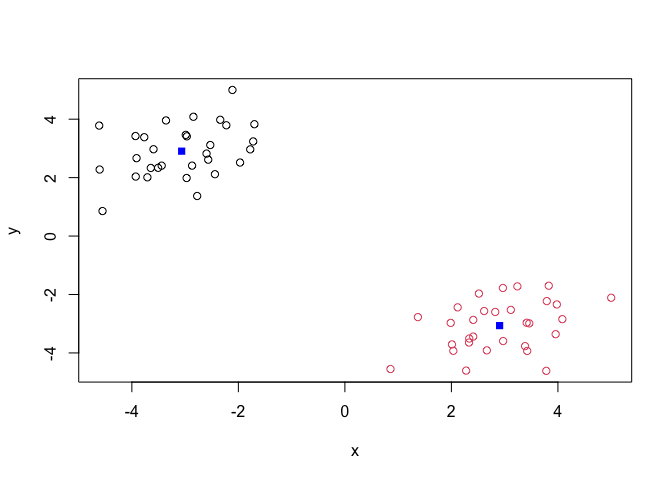
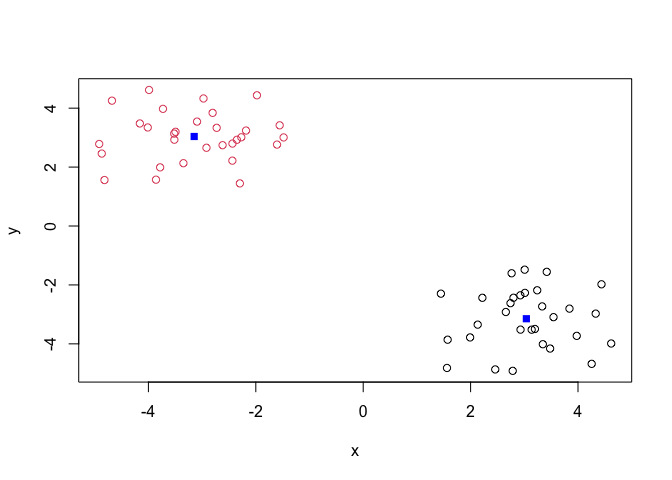
add these too

diff --git a/class07/class07.md b/class07/class07.md
@@ -24,20 +24,21 @@ hist( rnorm(5000) )
 rnorm(30, mean = 3)
 ```
 
-     [1] 2.723532 3.261522 2.534410 3.353386 2.838602 2.847074 1.991159 4.305638
-     [9] 3.210332 3.210749 2.930113 2.056106 2.625664 3.293327 3.233725 3.232507
-    [17] 2.918116 2.774017 2.284953 1.927727 1.950199 2.598374 2.962690 2.818210
-    [25] 2.239249 2.918572 4.685384 3.315832 4.487750 5.429186
+     [1] 3.8217615 2.9075970 2.2091991 1.8375144 1.8093009 2.4929397 2.7772924
+     [8] 2.5273977 4.0656303 3.9019723 3.2106615 2.3356025 5.9000555 3.4208126
+    [15] 5.0610947 2.9640300 2.4799324 3.0350154 1.8897613 1.6656779 4.4979176
+    [22] 0.7922321 4.0352856 2.0441580 2.7941421 1.4996687 3.0244404 4.0367926
+    [29] 2.5501538 1.5806868
 
 ``` r
 rnorm(30, mean = -3)
 ```
 
-     [1] -4.5642812 -2.5208086 -1.6769302 -2.1514637 -2.1231808 -3.7774185
-     [7] -1.8504283 -2.1150750 -2.5319243 -1.6193824 -1.7255608 -3.9948285
-    [13] -2.7051794 -3.0158474 -3.9130494 -3.6944221 -2.8100062 -1.4892181
-    [19] -1.1744037 -2.6474515 -1.9775158 -1.9702881 -1.5335114 -3.9279127
-    [25] -4.4288345 -3.5374013 -0.7956935 -3.1129882 -2.6799682 -2.9710771
+     [1] -2.294333 -3.028348 -3.686165 -2.753416 -3.709864 -1.563983 -2.767210
+     [8] -3.809635 -1.744672 -3.533773 -3.629331 -4.143903 -2.874603 -5.430443
+    [15] -3.501939 -1.328568 -1.067240 -1.954122 -2.737503 -3.797013 -6.031602
+    [22] -2.668463 -2.644406 -3.196841 -2.412142 -2.413348 -2.853653 -3.868691
+    [29] -2.587849 -2.286218
 
 ``` r
 tmp <- c(rnorm(30, mean = 3),
@@ -46,67 +47,67 @@ rnorm(30, mean =-3) )
 cbind(x=tmp, y =rev(tmp))
 ```
 
-                   x          y
-     [1,]  2.3352128 -3.5071933
-     [2,]  2.4100615 -2.8690682
-     [3,]  5.0005263 -2.1115064
-     [4,]  1.3710957 -2.7738903
-     [5,]  2.9710466 -3.5934649
-     [6,]  2.0359491 -3.9272989
-     [7,]  3.8280580 -1.6992426
-     [8,]  1.9869728 -2.9717345
-     [9,]  3.2388237 -1.7218173
-    [10,]  0.8562546 -4.5509985
-    [11,]  2.8227551 -2.5977699
-    [12,]  4.0829836 -2.8445475
-    [13,]  3.4133951 -2.9678159
-    [14,]  3.3830829 -3.7673170
-    [15,]  2.1173331 -2.4398973
-    [16,]  2.9671846 -1.7773149
-    [17,]  2.3307272 -3.6445934
-    [18,]  3.7914382 -2.2260545
-    [19,]  2.6657605 -3.9118829
-    [20,]  2.2767449 -4.6048721
-    [21,]  2.6146341 -2.5661864
-    [22,]  3.4625961 -2.9878548
-    [23,]  3.1157297 -2.5276555
-    [24,]  2.0105485 -3.7083924
-    [25,]  3.7814997 -4.6132415
-    [26,]  2.4095337 -3.4401396
-    [27,]  3.9797047 -2.3406314
-    [28,]  3.4230426 -3.9319705
-    [29,]  3.9575141 -3.3589091
-    [30,]  2.5165553 -1.9681716
-    [31,] -1.9681716  2.5165553
-    [32,] -3.3589091  3.9575141
-    [33,] -3.9319705  3.4230426
-    [34,] -2.3406314  3.9797047
-    [35,] -3.4401396  2.4095337
-    [36,] -4.6132415  3.7814997
-    [37,] -3.7083924  2.0105485
-    [38,] -2.5276555  3.1157297
-    [39,] -2.9878548  3.4625961
-    [40,] -2.5661864  2.6146341
-    [41,] -4.6048721  2.2767449
-    [42,] -3.9118829  2.6657605
-    [43,] -2.2260545  3.7914382
-    [44,] -3.6445934  2.3307272
-    [45,] -1.7773149  2.9671846
-    [46,] -2.4398973  2.1173331
-    [47,] -3.7673170  3.3830829
-    [48,] -2.9678159  3.4133951
-    [49,] -2.8445475  4.0829836
-    [50,] -2.5977699  2.8227551
-    [51,] -4.5509985  0.8562546
-    [52,] -1.7218173  3.2388237
-    [53,] -2.9717345  1.9869728
-    [54,] -1.6992426  3.8280580
-    [55,] -3.9272989  2.0359491
-    [56,] -3.5934649  2.9710466
-    [57,] -2.7738903  1.3710957
-    [58,] -2.1115064  5.0005263
-    [59,] -2.8690682  2.4100615
-    [60,] -3.5071933  2.3352128
+                  x         y
+     [1,]  2.131927 -3.347994
+     [2,]  2.784126 -4.916352
+     [3,]  3.544007 -3.094001
+     [4,]  3.240561 -2.181822
+     [5,]  2.219109 -2.436335
+     [6,]  3.011910 -2.270132
+     [7,]  3.332985 -2.728793
+     [8,]  2.929633 -3.516801
+     [9,]  2.458753 -4.868634
+    [10,]  4.437481 -1.978751
+    [11,]  4.329454 -2.974265
+    [12,]  1.572363 -3.859047
+    [13,]  3.480752 -4.159378
+    [14,]  3.841063 -2.804298
+    [15,]  2.656290 -2.919027
+    [16,]  3.345104 -4.012210
+    [17,]  3.976579 -3.728804
+    [18,]  4.254647 -4.678682
+    [19,]  1.990846 -3.781863
+    [20,]  3.197870 -3.495185
+    [21,]  2.743170 -2.618804
+    [22,]  3.006909 -1.482248
+    [23,]  2.798585 -2.434820
+    [24,]  3.136993 -3.519212
+    [25,]  1.446928 -2.296643
+    [26,]  4.618280 -3.987927
+    [27,]  1.560344 -4.818487
+    [28,]  2.763759 -1.604457
+    [29,]  3.418141 -1.555741
+    [30,]  2.926366 -2.352208
+    [31,] -2.352208  2.926366
+    [32,] -1.555741  3.418141
+    [33,] -1.604457  2.763759
+    [34,] -4.818487  1.560344
+    [35,] -3.987927  4.618280
+    [36,] -2.296643  1.446928
+    [37,] -3.519212  3.136993
+    [38,] -2.434820  2.798585
+    [39,] -1.482248  3.006909
+    [40,] -2.618804  2.743170
+    [41,] -3.495185  3.197870
+    [42,] -3.781863  1.990846
+    [43,] -4.678682  4.254647
+    [44,] -3.728804  3.976579
+    [45,] -4.012210  3.345104
+    [46,] -2.919027  2.656290
+    [47,] -2.804298  3.841063
+    [48,] -4.159378  3.480752
+    [49,] -3.859047  1.572363
+    [50,] -2.974265  4.329454
+    [51,] -1.978751  4.437481
+    [52,] -4.868634  2.458753
+    [53,] -3.516801  2.929633
+    [54,] -2.728793  3.332985
+    [55,] -2.270132  3.011910
+    [56,] -2.436335  2.219109
+    [57,] -2.181822  3.240561
+    [58,] -3.094001  3.544007
+    [59,] -4.916352  2.784126
+    [60,] -3.347994  2.131927
 
 ``` r
 cbind(letters, rev(letters))
@@ -173,8 +174,8 @@ km$size
 km$cluster
 ```
 
-     [1] 2 2 2 2 2 2 2 2 2 2 2 2 2 2 2 2 2 2 2 2 2 2 2 2 2 2 2 2 2 2 1 1 1 1 1 1 1 1
-    [39] 1 1 1 1 1 1 1 1 1 1 1 1 1 1 1 1 1 1 1 1 1 1
+     [1] 1 1 1 1 1 1 1 1 1 1 1 1 1 1 1 1 1 1 1 1 1 1 1 1 1 1 1 1 1 1 2 2 2 2 2 2 2 2
+    [39] 2 2 2 2 2 2 2 2 2 2 2 2 2 2 2 2 2 2 2 2 2 2
 
 > Q. Plot our clustering results with points colors by cluster and also
 > add the cluster centers as new points colored blue?
@@ -203,13 +204,13 @@ the meteric
 km$tot.withinss
 ```
 
-    [1] 88.46049
+    [1] 98.79615
 
 ``` r
 k4$tot.withinss
 ```
 
-    [1] 48.0586
+    [1] 67.11078
 
 ``` r
 ans <- NULL
@@ -221,11 +222,11 @@ ans <- c(ans, kmeans(x, centers = i)$tot.withinss)
 ans
 ```
 
-     [1] 1157.785375   88.460488   68.259545   61.758902   57.789840   36.410805
-     [7]   34.132988   50.400085   25.374385   19.998379   17.584037   16.253289
-    [13]   14.990841   13.139224   13.811816   11.067882    9.561577    8.942365
-    [19]    7.387526    6.948600    8.466480    8.077726    6.681661    6.216426
-    [25]    4.257067    5.218452    4.489939    3.386489    2.883191    2.974720
+     [1] 1246.767512   98.796149   77.281688   55.767227   47.319661   41.738319
+     [7]   31.703884   27.982351   25.256595   24.735899   20.037007   18.762945
+    [13]   17.074060   14.407328   13.472103   11.754913   10.121630   11.795519
+    [19]    9.020294    9.214323    7.896363    6.007800    7.249658    5.347854
+    [25]    5.057350    5.041093    3.536338    4.710251    4.175651    3.112001
 
 ``` r
 plot(ans, typ = "o")
@@ -279,8 +280,8 @@ table(grps, km$cluster)
 
         
     grps  1  2
-       1  0 30
-       2 30  0
+       1 30  0
+       2  0 30
 
 ## PCA of UK food data
 
